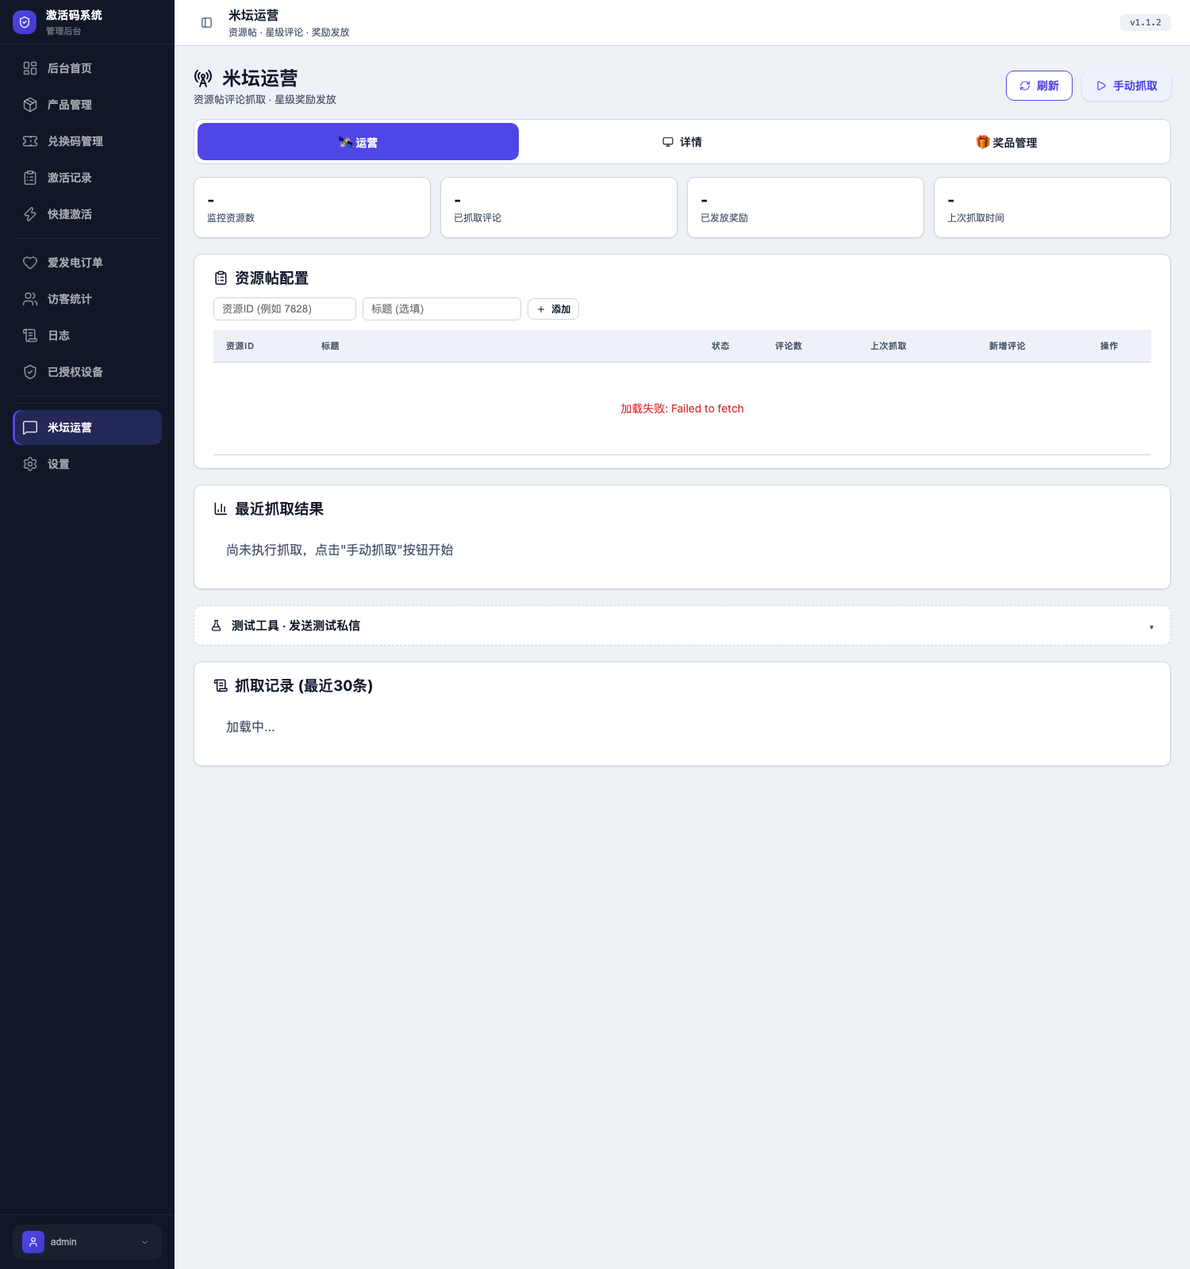
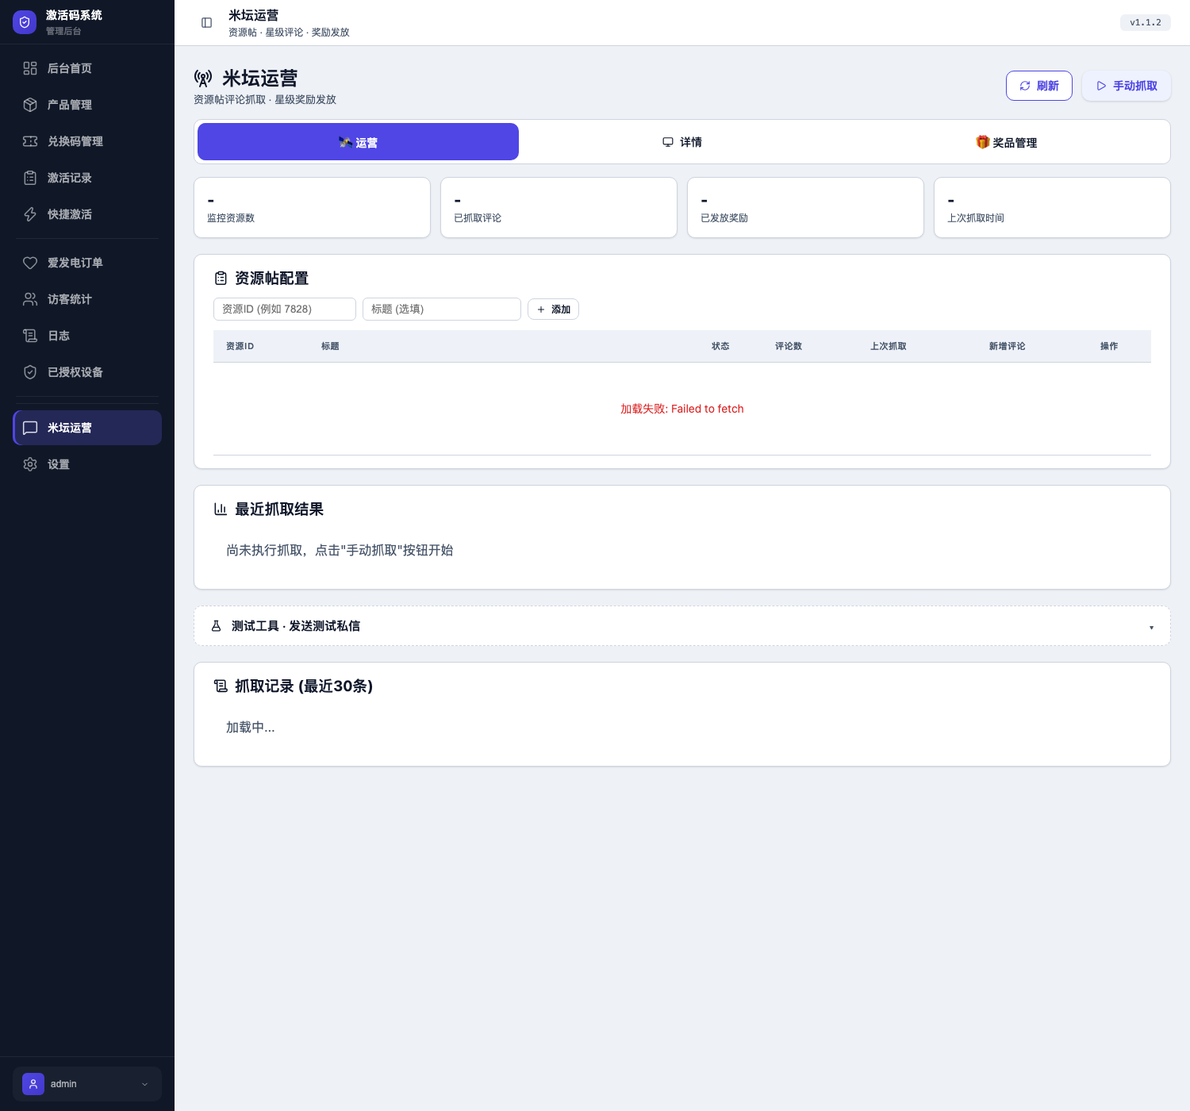
feat(app-auth): 米坛运营三 Tab 内容重设计 —— 全中文文案
HTML（admin_Dx23.html）：
- 「Star Review Reward Pool」→「🌟 奖励池」
- Reward Product / EV Schedule Pro (0 yuan purchase) → 奖励产品：/ EV 课程表 Pro（0 元兑换）
- 奖励私信模板标题与模板正文全部中文化；Save Template → 保存模板
- Batch Import Reward Links / Batch Import → 批量导入兑换链接 / 批量导入；placeholder 中文化
- 库存区重设计：原一行「Pool Stock / Used / Remaining」文本 → 3 张统计卡
  （库存总量 / 已发放 / 剩余可用，复用原 id，JS 无需配套改动）
- Filter / All Resources / All Status / Claimed / Unclaimed → 全中文
- 测试私信默认值中文化；Loading... → 加载中...

JS（admin-bandbbs.js）：
- 提示语全中文化：Request failed / Failed / Error / Importing / Saved /
  Template cannot be empty / Please paste redeem links first / No reward records /
  No resources configured / Failed to load
- 抓取结果摘要「N reviews, new X, sent Y」→「共 N 条，新增 X，已发 Y」
- 发放日志表头 Code/User/Resource/Stars/Status/Assigned At/Go Link
  → 兑换码/用户/资源/星级/状态/发放时间/跳转链接
- 半角冒号统一为全角，批量导入回执中文化

verified: node --check 通过；headless Chrome 三态截图复核（禁用过渡后），
零 JS 错误；29 个 DOM id 与三面板结构均未变

diff --git a/admin-bandbbs.js b/admin-bandbbs.js
@@ -13,7 +13,7 @@ async function loadBandBBS() {
         var configs = configData.data;
         var tbody = document.getElementById('bbResourcesTable');
         if (!configs || !configs.length) {
-          tbody.innerHTML = '<tr><td colspan="7" class="empty">No resources configured</td></tr>';
+          tbody.innerHTML = '<tr><td colspan="7" class="empty">暂无已配置的资源</td></tr>';
         } else {
           var rows = '';
           for (var i = 0; i < configs.length; i++) {
@@ -59,17 +59,17 @@ async function triggerBandBBSPoll() {
         for (var i = 0; i < resourceKeys.length; i++) {
           var rid = resourceKeys[i];
           var v = r.resources[rid];
-          resourcesHtml += '<div style="margin:4px 0">#' + rid + ': ' + (v.error ? '<span style="color:#dc2626">错误: ' + v.error + '</span>' : v.count + ' reviews (' + (v.title || '') + ')') + '</div>';
+          resourcesHtml += '<div style="margin:4px 0">#' + rid + ': ' + (v.error ? '<span style="color:#dc2626">错误：' + v.error + '</span>' : v.count + ' 条评论（' + (v.title || '') + '）') + '</div>';
         }
         box.innerHTML = '<div style="color:#16a34a;font-weight:600;margin-bottom:8px">抓取完成</div>' +
-          '<div>新增评论: <b>' + r.newReviews + '</b> | Rewards Sent: <b>' + r.rewards.sent + '</b> | 跳过: <b>' + r.rewards.skipped + '</b> | 错误: <b>' + r.rewards.errors + '</b></div>' +
-          '<div style="margin-top:4px">耗时: ' + r.duration + 'ms</div>' +
+          '<div>新增评论：<b>' + r.newReviews + '</b> | 已发奖励：<b>' + r.rewards.sent + '</b> | 跳过：<b>' + r.rewards.skipped + '</b> | 错误：<b>' + r.rewards.errors + '</b></div>' +
+          '<div style="margin-top:4px">耗时：' + r.duration + 'ms</div>' +
           '<div style="margin-top:8px">' + resourcesHtml + '</div>';
       } else {
-        box.innerHTML = '<span style="color:#dc2626">抓取失败: ' + ((result && result.error) || '未知错误') + '</span>';
+        box.innerHTML = '<span style="color:#dc2626">抓取失败：' + ((result && result.error) || '未知错误') + '</span>';
       }
     } catch (e) {
-      document.getElementById('bbPollResult').innerHTML = '<span style="color:#dc2626">请求失败: ' + (e.message || e) + '</span>';
+      document.getElementById('bbPollResult').innerHTML = '<span style="color:#dc2626">请求失败：' + (e.message || e) + '</span>';
     }
     btn.disabled = false;
     btn.textContent = '▶ 手动抓取';
@@ -105,7 +105,7 @@ async function triggerBandBBSPoll() {
       if (result && result.success) {
         loadBandBBS();
       } else {
-        alert('Failed: ' + ((result && result.error) || 'Unknown'));
+        alert('失败：' + ((result && result.error) || 'Unknown'));
       }
     } catch (e) {
       alert('Error: ' + (e.message || e));
@@ -128,12 +128,12 @@ async function triggerBandBBSPoll() {
       });
       var resultBox = document.getElementById('bbDmResult');
       if (result && result.success) {
-        resultBox.innerHTML = '<span style="color:#16a34a">已发送给 ' + recipient + ' (会话ID: ' + (result.conversationId || '-') + ')</span>';
+        resultBox.innerHTML = '<span style="color:#16a34a">已发送给 ' + recipient + ' （会话ID：' + (result.conversationId || '-') + ')</span>';
       } else {
         resultBox.innerHTML = '<span style="color:#dc2626">发送失败: ' + ((result && result.error) || '未知错误') + '</span>';
       }
     } catch (e) {
-      document.getElementById('bbDmResult').innerHTML = '<span style="color:#dc2626">Request failed: ' + (e.message || e) + '</span>';
+      document.getElementById('bbDmResult').innerHTML = '<span style="color:#dc2626">请求失败：' + (e.message || e) + '</span>';
     }
     btn.disabled = false;
     btn.textContent = '📨 发送';
@@ -150,16 +150,16 @@ async function triggerBandBBSPoll() {
         var h = '';
         for (var i = 0; i < keys.length; i++) {
           var k = keys[i], v = r.resources[k];
-          h += '<div style="margin:4px 0">#' + k + ': ' + (v.error ? '<span style="color:#dc2626">Error: ' + v.error + '</span>' : v.count + ' reviews') + '</div>';
+          h += '<div style="margin:4px 0">#' + k + ': ' + (v.error ? '<span style="color:#dc2626">错误：' + v.error + '</span>' : v.count + ' 条评论') + '</div>';
         }
         box.innerHTML = '<div style="color:#16a34a;font-weight:600;margin-bottom:8px">抓取完成</div>' +
-          '<div>资源 <b>' + rid + '</b> | 新增: <b>' + r.newReviews + '</b> | 已发: <b>' + r.rewards.sent + '</b> | 跳过: <b>' + r.rewards.skipped + '</b> | 错误: <b>' + r.rewards.errors + '</b></div>' +
+          '<div>资源 <b>' + rid + '</b> | 新增: <b>' + r.newReviews + '</b> | 已发: <b>' + r.rewards.sent + '</b> | 跳过：<b>' + r.rewards.skipped + '</b> | 错误：<b>' + r.rewards.errors + '</b></div>' +
           '<div style="margin-top:4px">' + r.duration + 'ms</div><div style="margin-top:8px">' + h + '</div>';
       } else {
-        box.innerHTML = '<span style="color:#dc2626">抓取失败: ' + ((result && result.error) || '未知') + '</span>';
+        box.innerHTML = '<span style="color:#dc2626">抓取失败：' + ((result && result.error) || '未知') + '</span>';
       }
     } catch (e) {
-      document.getElementById('bbPollResult').innerHTML = '<span style="color:#dc2626">Request failed: ' + (e.message || e) + '</span>';
+      document.getElementById('bbPollResult').innerHTML = '<span style="color:#dc2626">请求失败：' + (e.message || e) + '</span>';
     }
     if (btnEl) { btnEl.disabled = false; btnEl.textContent = '抓取'; }
     loadBandBBS();
@@ -198,7 +198,7 @@ async function loadBandBBSPollLogs() {
         var rows = '';
         for (var i = 0; i < logs.length; i++) {
           var l = logs[i];
-          var sum = (l.resources || []).map(function(x){ return '#'+x.resourceId+' ('+(x.count||0)+' reviews, new '+(x.newCount||0)+', sent '+(x.sent||0)+')'; }).join(', ');
+          var sum = (l.resources || []).map(function(x){ return '#'+x.resourceId+'（共 '+(x.count||0)+' 条，新增 '+(x.newCount||0)+'，已发 '+(x.sent||0)+'）'; }).join(', ');
           rows += '<tr><td style="font-size:0.75rem">'+(l.at||'-')+'</td><td>'+(l.mode==='cron'?'<span style="color:#f59e0b">定时</span>':'<span style="color:#16a34a">手动</span>')+'</td><td style="max-width:400px">'+(sum||'-')+'</td><td>'+(l.newReviews||0)+'</td><td>'+(l.rewardsSent||0)+'</td></tr>';
         }
         box.innerHTML = '<div style="overflow-x:auto"><table><thead><tr><th>时间</th><th>模式</th><th>资源</th><th>新增</th><th>已发</th></tr></thead><tbody>'+rows+'</tbody></table></div>';
@@ -229,7 +229,7 @@ async function loadBandBBSPollLogs() {
         box.innerHTML = '<span style="color:#dc2626">加载资源列表失败</span>';
       }
     } catch (e) {
-      if (box) box.innerHTML = '<span style="color:#dc2626">请求失败: ' + (e.message || e) + '</span>';
+      if (box) box.innerHTML = '<span style="color:#dc2626">请求失败：' + (e.message || e) + '</span>';
     }
   }
 async function loadBandBBSReviewsByResource(rid, box) {
@@ -238,7 +238,7 @@ async function loadBandBBSReviewsByResource(rid, box) {
     try {
       var result = await api('/api/admin/catalog?kind=bandbbs&op=resource-detail&resourceId=' + encodeURIComponent(rid));
       if (!result || !result.success) {
-        box.innerHTML = '<span style="color:#dc2626">失败: ' + ((result && result.error) || '未知') + '</span>';
+        box.innerHTML = '<span style="color:#dc2626">失败：' + ((result && result.error) || '未知') + '</span>';
         return [];
       }
       var d = result.data;
@@ -247,7 +247,7 @@ async function loadBandBBSReviewsByResource(rid, box) {
       for (var i = 0; i < reviews.length; i++) reviews[i]._resourceId = rid;
       return reviews;
     } catch (e) {
-      box.innerHTML = '<span style="color:#dc2626">请求失败: ' + (e.message || e) + '</span>';
+      box.innerHTML = '<span style="color:#dc2626">请求失败：' + (e.message || e) + '</span>';
       return [];
     }
   
@@ -324,7 +324,7 @@ async function loadBandBBSReviewsByResource(rid, box) {
       var box = document.getElementById('bbPollResult');
       if (result && result.success) {
         box.innerHTML = '<div style="color:#16a34a;font-weight:600;margin-bottom:8px">奖励发送完成</div>' +
-          '<div>资源 <b>#' + rid + '</b> | 已发送: <b>' + (result.sent || 0) + '</b> | 跳过: <b>' + (result.skipped || 0) + '</b> | 错误: <b>' + (result.errors || 0) + '</b></div>';
+          '<div>资源 <b>#' + rid + '</b> | 已发送: <b>' + (result.sent || 0) + '</b> | 跳过：<b>' + (result.skipped || 0) + '</b> | 错误：<b>' + (result.errors || 0) + '</b></div>';
         if (result.notEnough) {
           box.innerHTML += '<div style="color:#f59e0b;margin-top:4px">⚠ 奖励池链接不足，还有 ' + result.notEnough + ' 条评论未发送</div>';
         }
@@ -332,7 +332,7 @@ async function loadBandBBSReviewsByResource(rid, box) {
         box.innerHTML = '<span style="color:#dc2626">发送失败: ' + ((result && result.error) || '未知错误') + '</span>';
       }
     } catch (e) {
-      document.getElementById('bbPollResult').innerHTML = '<span style="color:#dc2626">请求失败: ' + (e.message || e) + '</span>';
+      document.getElementById('bbPollResult').innerHTML = '<span style="color:#dc2626">请求失败：' + (e.message || e) + '</span>';
     }
     if (btnEl) { btnEl.disabled = false; btnEl.textContent = '发送奖励'; }
     loadBandBBS();
@@ -349,7 +349,7 @@ async function loadBandBBSReviewsByResource(rid, box) {
   async function saveRewardTemplate() {
     var template = document.getElementById('bbRewardTemplate').value.trim();
     var statusEl = document.getElementById('bbTemplateStatus');
-    if (!template) { statusEl.textContent = 'Template cannot be empty'; return; }
+    if (!template) { statusEl.textContent = '模板内容不能为空'; return; }
     try {
       var result = await api('/api/admin/catalog?kind=bandbbs&op=reward-pool-save-template', {
         method: 'POST',
@@ -357,13 +357,13 @@ async function loadBandBBSReviewsByResource(rid, box) {
         body: JSON.stringify({ template: template })
       });
       if (result && result.success) {
-        statusEl.textContent = 'Saved';
+        statusEl.textContent = '已保存';
         setTimeout(function() { statusEl.textContent = ''; }, 2000);
       } else {
-        statusEl.textContent = 'Failed: ' + ((result && result.error) || 'unknown');
+        statusEl.textContent = '操作失败：' + ((result && result.error) || '未知错误');
       }
     } catch (e) {
-      statusEl.textContent = 'Error: ' + (e.message || e);
+      statusEl.textContent = '错误：' + (e.message || e);
     }
   }
 
@@ -371,8 +371,8 @@ async function loadBandBBSReviewsByResource(rid, box) {
   async function importRewardLinks() {
     var linksText = document.getElementById('bbRewardImportArea').value.trim();
     var statusEl = document.getElementById('bbImportStatus');
-    if (!linksText) { statusEl.textContent = 'Please paste redeem links first'; return; }
-    statusEl.textContent = 'Importing...';
+    if (!linksText) { statusEl.textContent = '请先粘贴兑换链接'; return; }
+    statusEl.textContent = '导入中...';
     try {
       var result = await api('/api/admin/catalog?kind=bandbbs&op=reward-pool-import', {
         method: 'POST',
@@ -380,18 +380,18 @@ async function loadBandBBSReviewsByResource(rid, box) {
         body: JSON.stringify({ links: linksText })
       });
       if (result && result.success) {
-        var msg = 'Imported ' + result.imported + ' new links';
-        if (result.skipped) msg += ', skipped ' + result.skipped + ' duplicates';
-        if (result.errors && result.errors.length) msg += ', ' + result.errors.length + ' errors';
+        var msg = '成功导入 ' + result.imported + ' 条';
+        if (result.skipped) msg += '，跳过 ' + result.skipped + ' 条重复';
+        if (result.errors && result.errors.length) msg += '，' + result.errors.length + ' 条错误';
         statusEl.textContent = msg;
         document.getElementById('bbRewardImportArea').value = '';
         loadPoolStats();
         loadRewardLog();
       } else {
-        statusEl.textContent = 'Failed: ' + ((result && result.error) || 'unknown');
+        statusEl.textContent = '操作失败：' + ((result && result.error) || '未知错误');
       }
     } catch (e) {
-      statusEl.textContent = 'Error: ' + (e.message || e);
+      statusEl.textContent = '错误：' + (e.message || e);
     }
   }
 
@@ -416,7 +416,7 @@ async function loadBandBBSReviewsByResource(rid, box) {
     var statusFilter = document.getElementById('bbRewardLogStatusFilter');
     var table = document.getElementById('bbRewardLogTable');
     if (!table) return;
-    table.innerHTML = '<span class="muted">Loading...</span>';
+    table.innerHTML = '<span class="muted">加载中...</span>';
 
     var resourceId = resourceFilter ? resourceFilter.value : '';
     var status = statusFilter ? statusFilter.value : '';
@@ -429,7 +429,7 @@ async function loadBandBBSReviewsByResource(rid, box) {
         if (resourceFilter) {
           var configResult = await api('/api/admin/catalog?kind=bandbbs&op=config');
           var configs = (configResult && configResult.success && configResult.data) ? configResult.data : [];
-          var opts = '<option value="">All Resources</option>';
+          var opts = '<option value="">全部资源</option>';
           for (var i = 0; i < configs.length; i++) {
             var c = configs[i];
             opts += '<option value="' + c.resourceId + '">#' + c.resourceId + ' - ' + (c.title || '') + '</option>';
@@ -439,13 +439,13 @@ async function loadBandBBSReviewsByResource(rid, box) {
         }
 
         if (!logs.length) {
-          table.innerHTML = '<span class="muted">No reward records</span>';
+          table.innerHTML = '<span class="muted">暂无发放记录</span>';
           return;
         }
         var rows = '';
         for (var j = 0; j < logs.length; j++) {
           var l = logs[j];
-          var badge = l.claimed ? '<span style="color:#16a34a;font-weight:600">Claimed</span>' : '<span style="color:#f59e0b">Unclaimed</span>';
+          var badge = l.claimed ? '<span style="color:#16a34a;font-weight:600">已领取</span>' : '<span style="color:#f59e0b">未领取</span>';
           rows += '<tr>' +
             '<td style="font-size:0.75rem">' + (l.couponCode ? l.couponCode.substring(0, 8) + '...' : '-') + '</td>' +
             '<td>' + (l.assignedTo || '-') + '</td>' +
@@ -456,12 +456,12 @@ async function loadBandBBSReviewsByResource(rid, box) {
             '<td style="font-size:0.75rem"><a href="' + (l.goUrl || '#') + '" target="_blank" style="color:var(--accent)">' + (l.goSlug || '-') + '</a></td>' +
             '</tr>';
         }
-        table.innerHTML = '<div style="overflow-x:auto"><table><thead><tr><th>Code</th><th>User</th><th>Resource</th><th>Stars</th><th>Status</th><th>Assigned At</th><th>Go Link</th></tr></thead><tbody>' + rows + '</tbody></table></div>';
+        table.innerHTML = '<div style="overflow-x:auto"><table><thead><tr><th>兑换码</th><th>用户</th><th>资源</th><th>星级</th><th>状态</th><th>发放时间</th><th>跳转链接</th></tr></thead><tbody>' + rows + '</tbody></table></div>';
       } else {
-        table.innerHTML = '<span style="color:#dc2626">Failed to load</span>';
+        table.innerHTML = '<span style="color:#dc2626">加载失败</span>';
       }
     } catch (e) {
-      table.innerHTML = '<span style="color:#dc2626">Error: ' + (e.message || e) + '</span>';
+      table.innerHTML = '<span style="color:#dc2626">错误：' + (e.message || e) + '</span>';
     }
   }
 

diff --git a/admin_Dx23.html b/admin_Dx23.html
@@ -4936,8 +4936,8 @@
             <summary>🧪 测试工具 · 发送测试私信</summary>
             <div style="display:flex;gap:8px;align-items:center;flex-wrap:wrap">
               <input type="text" id="bbDmRecipient" placeholder="收信人用户名" value="peipeijin" style="width:160px;padding:6px 10px;border:1px solid var(--line);border-radius:6px;background:var(--card);color:var(--ink)">
-              <input type="text" id="bbDmTitle" placeholder="标题" value="Reward Test" style="width:160px;padding:6px 10px;border:1px solid var(--line);border-radius:6px;background:var(--card);color:var(--ink)">
-              <input type="text" id="bbDmMessage" placeholder="内容" value="This is a test reward message from BandBBS integration." style="width:300px;padding:6px 10px;border:1px solid var(--line);border-radius:6px;background:var(--card);color:var(--ink)">
+              <input type="text" id="bbDmTitle" placeholder="标题" value="奖励测试" style="width:160px;padding:6px 10px;border:1px solid var(--line);border-radius:6px;background:var(--card);color:var(--ink)">
+              <input type="text" id="bbDmMessage" placeholder="内容" value="这是一条来自米坛集成的测试奖励私信。" style="width:300px;padding:6px 10px;border:1px solid var(--line);border-radius:6px;background:var(--card);color:var(--ink)">
               <button class="btn btn-sm" onclick="sendBandBBSDM()" id="btnSendDm">📨 发送</button>
             </div>
             <div id="bbDmResult" style="margin-top:10px;font-size:0.8125rem"></div>
@@ -4988,52 +4988,61 @@
         
           <!-- Star Review Reward Pool -->
           <div class="setting-block" id="bbRewardPoolSection" style="margin-bottom:20px">
-            <h3 style="margin:0 0 12px">Star Review Reward Pool</h3>
+            <h3 style="margin:0 0 12px">🌟 奖励池</h3>
             
             <div style="padding:12px;background:var(--card);border-radius:8px;margin-bottom:12px">
               <div style="display:flex;gap:16px;align-items:center;flex-wrap:wrap">
-                <span style="font-weight:600">Reward Product:</span>
-                <span>EV Schedule Pro (0 yuan purchase)</span>
+                <span style="font-weight:600">奖励产品：</span>
+                <span>EV 课程表 Pro（0 元兑换）</span>
               </div>
             </div>
 
             <div style="padding:12px;background:var(--card);border-radius:8px;margin-bottom:12px">
-              <label style="font-weight:600;display:block;margin-bottom:6px">Reward Message Template</label>
-              <textarea id="bbRewardTemplate" style="width:100%;height:60px;padding:8px;border:1px solid var(--line);border-radius:6px;background:var(--card);color:var(--ink);resize:vertical">Thank you for your 5-star review! Here is a free EV Schedule Pro as a gift. Click the link to claim on Aifadian:</textarea>
+              <label style="font-weight:600;display:block;margin-bottom:6px">奖励私信模板</label>
+              <textarea id="bbRewardTemplate" style="width:100%;height:60px;padding:8px;border:1px solid var(--line);border-radius:6px;background:var(--card);color:var(--ink);resize:vertical">感谢你的五星好评！送你一份 EV 课程表 Pro 作为回馈，点击下面的链接即可领取：</textarea>
               <div style="margin-top:6px;display:flex;gap:8px">
-                <button class="btn btn-sm" onclick="saveRewardTemplate()">Save Template</button>
+                <button class="btn btn-sm" onclick="saveRewardTemplate()">保存模板</button>
                 <span id="bbTemplateStatus" style="font-size:0.75rem;color:var(--muted)"></span>
               </div>
             </div>
 
             <div style="padding:12px;background:var(--card);border-radius:8px;margin-bottom:12px">
-              <label style="font-weight:600;display:block;margin-bottom:6px">Batch Import Reward Links</label>
-              <textarea id="bbRewardImportArea" placeholder="One Aifadian redeem link per line&#10;Example:&#10;https://afdian.com/redeem/c6f06ac8a8e711f191c420&#10;https://afdian.com/redeem/c6f0174ea8e711f18c5210" style="width:100%;height:120px;padding:8px;border:1px solid var(--line);border-radius:6px;background:var(--card);color:var(--ink);resize:vertical;font-family:monospace;font-size:0.75rem"></textarea>
+              <label style="font-weight:600;display:block;margin-bottom:6px">批量导入兑换链接</label>
+              <textarea id="bbRewardImportArea" placeholder="每行一条爱发电兑换链接&#10;例如：&#10;https://afdian.com/redeem/c6f06ac8a8e711f191c420&#10;https://afdian.com/redeem/c6f0174ea8e711f18c5210" style="width:100%;height:120px;padding:8px;border:1px solid var(--line);border-radius:6px;background:var(--card);color:var(--ink);resize:vertical;font-family:monospace;font-size:0.75rem"></textarea>
               <div style="margin-top:6px;display:flex;gap:8px;align-items:center">
-                <button class="btn btn-sm btn-primary" onclick="importRewardLinks()">Batch Import</button>
+                <button class="btn btn-sm btn-primary" onclick="importRewardLinks()">批量导入</button>
                 <span id="bbImportStatus" style="font-size:0.75rem;color:var(--muted)"></span>
               </div>
             </div>
 
-            <div style="display:flex;gap:16px;flex-wrap:wrap;margin-bottom:12px;padding:10px;background:var(--surface);border-radius:8px" id="bbPoolStats">
-              <span>Pool Stock: <b id="bbPoolTotal">-</b></span>
-              <span>Used: <b id="bbPoolUsed">-</b></span>
-              <span>Remaining: <b id="bbPoolRemaining">-</b></span>
+            <div class="stats-bar" id="bbPoolStats" style="grid-template-columns:repeat(3,1fr);margin-bottom:16px">
+              <div class="stat-card">
+                <div class="number" id="bbPoolTotal">-</div>
+                <div class="label">库存总量</div>
+              </div>
+              <div class="stat-card">
+                <div class="number" id="bbPoolUsed">-</div>
+                <div class="label">已发放</div>
+              </div>
+              <div class="stat-card">
+                <div class="number" id="bbPoolRemaining">-</div>
+                <div class="label">剩余可用</div>
+              </div>
             </div>
 
             <div style="margin-bottom:12px;display:flex;gap:8px;align-items:center;flex-wrap:wrap;padding:8px;background:var(--surface);border-radius:8px">
-              <label style="font-weight:600;white-space:nowrap">Filter:</label>
+              <label style="font-weight:600;white-space:nowrap">筛选：</label>
               <select id="bbRewardLogResourceFilter" onchange="loadRewardLog()" style="min-width:160px;padding:6px 10px;border:1px solid var(--line);border-radius:6px;background:var(--card);color:var(--ink)">
-                <option value="">All Resources</option>
+                <option value="">全部资源</option>
               </select>
               <select id="bbRewardLogStatusFilter" onchange="loadRewardLog()" style="min-width:140px;padding:6px 10px;border:1px solid var(--line);border-radius:6px;background:var(--card);color:var(--ink)">
-                <option value="">All Status</option>
-                <option value="claimed">Claimed</option>
-                <option value="unclaimed">Unclaimed</option>
+                <option value="">全部状态</option>
+                <option value="claimed">已领取</option>
+                <option value="unclaimed">未领取</option>
               </select>
             </div>
             <div id="bbRewardLogTable" style="padding:16px;background:var(--card);border-radius:8px;min-height:80px">
-              <span class="muted">Loading...</span>
+              <span class="muted">加载中...</span>
             </div>
           </div>
 
